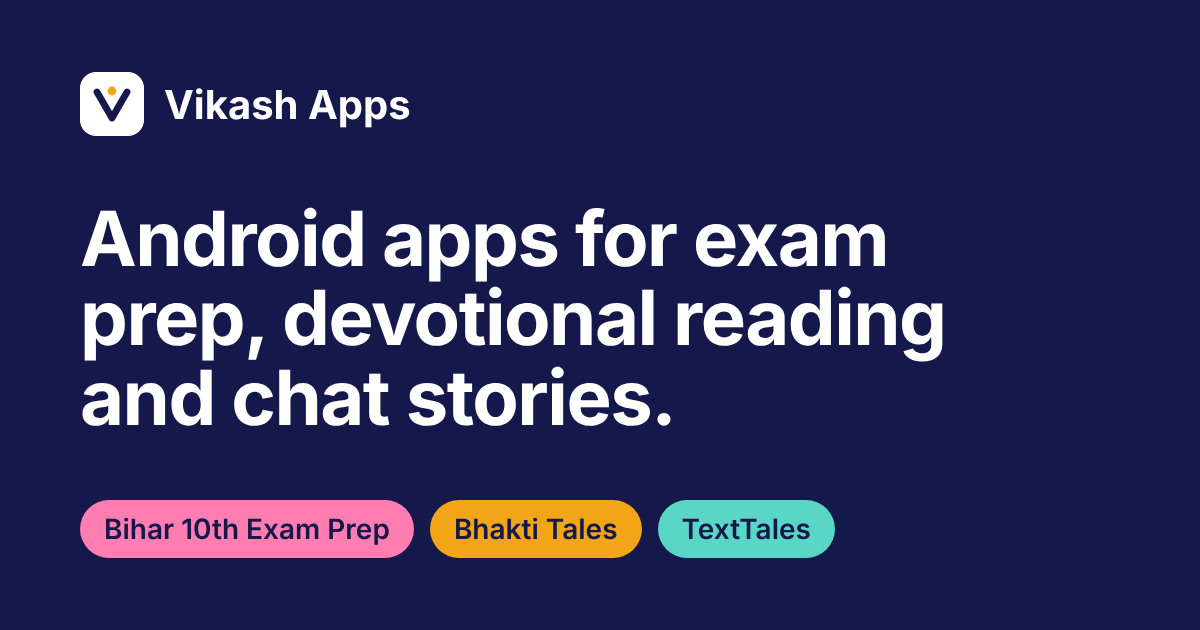
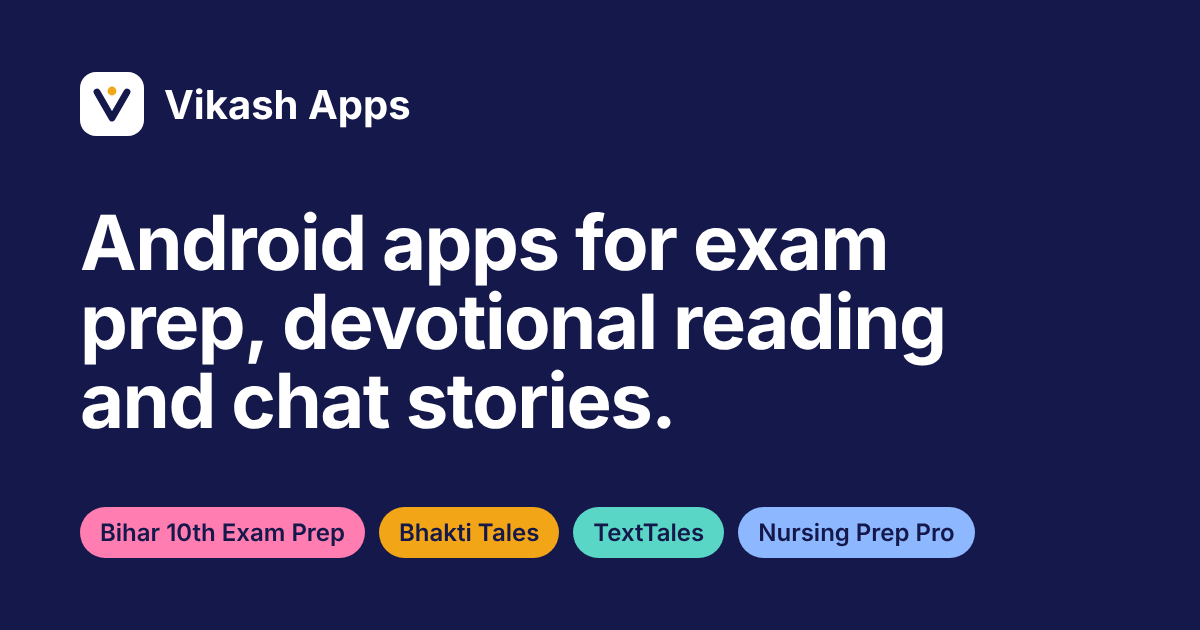
updated nursing app page

Changed region(s): [[0.0617, 0.3317, 0.8017, 0.573], [0.0617, 0.7841, 0.8325, 0.9048], [0.0617, 0.4825, 0.555, 0.6937]]

diff --git a/apps/nursing-prep-pro/index.html b/apps/nursing-prep-pro/index.html
@@ -50,11 +50,10 @@
       <p class="lede">Semester-wise notes, practice MCQs and previous-year questions for nursing students.</p>
       <p class="measure">Nursing Prep Pro is an educational Android app. It follows the nursing curriculum semester by semester, with teacher-style notes to study from and questions to practise before your exams.</p>
       <p class="actions">
-        <!-- GOOGLE PLAY LINK: when the app is live, replace the span below with
-             <a class="btn" href="https://play.google.com/store/apps/details?id=YOUR.PACKAGE.ID" target="_blank" rel="noopener noreferrer">Get it on Google Play</a> -->
-        <span class="btn btn-pending">Google Play link coming soon</span>
+        <a class="btn" href="https://play.google.com/store/apps/details?id=com.technovikash.nursingpreppro" target="_blank" rel="noopener noreferrer">Get it on Google Play</a>
         <a href="privacy-policy/index.html">Privacy policy</a>
       </p>
+      <p class="small soft">Free to download. Contains ads. Some content may require an in-app purchase through Google Play.</p>
     </div>
     <figure class="specimen omr" data-app="nursing">
       <div class="sheet">
@@ -85,7 +84,7 @@
         <div><dt>Topic-wise notes</dt><dd>Teacher-style study notes for each topic.</dd></div>
         <div><dt>Practice MCQs</dt><dd>Chapter-wise multiple-choice questions to practise with.</dd></div>
         <div><dt>Previous-year questions</dt><dd>Questions from earlier exams to work through.</dd></div>
-        <div><dt>Practice and exam modes</dt><dd>Practise freely, or answer in a mock-test style.</dd></div>
+        <div><dt>Practice and exam modes</dt><dd>Solve questions at your own pace, or test yourself with timed, exam-style practice.</dd></div>
         <div><dt>Revision-focused learning</dt><dd>Content written with revision in mind.</dd></div>
       </dl>
     </div>
@@ -127,6 +126,7 @@
     <div class="stack">
       <h2>Disclaimer</h2>
       <p class="notice"><strong>Nursing Prep Pro is an independent educational application intended for study and exam preparation. It is not affiliated with, endorsed by, or sponsored by the Indian Nursing Council or any government organization unless explicitly stated.</strong> For the latest curriculum and rules, refer to your own institution and to the current publications of the relevant regulatory bodies.</p>
+      <p class="measure">The app is not a substitute for formal nursing education, clinical training, professional guidance, or instructions from a qualified nursing institution or healthcare professional.</p>
     </div>
   </section>
 

diff --git a/apps/bhakti-tales/index.html b/apps/bhakti-tales/index.html
@@ -87,6 +87,7 @@
       <div class="stack">
         <h2>Our other apps</h2>
         <ul class="other">
+          <li><strong>Nursing Prep Pro</strong><span>Notes, MCQs and previous-year questions for nursing students.</span><a href="../../apps/nursing-prep-pro/index.html">About the app</a></li>
           <li><strong>Bihar 10th Exam Prep</strong><span>Notes, MCQs and tests for Bihar Board Class 10.</span><a href="../../apps/bihar-10th/home.html">About the app</a></li>
           <li><strong>TextTales</strong><span>Chat stories in horror, romance and mystery.</span><a href="https://play.google.com/store/apps/details?id=com.texttales.app" target="_blank" rel="noopener">View on Google Play</a></li>
         </ul>
@@ -107,6 +108,7 @@
   <div class="wrap">
     <p>© 2026 Vikash Apps. All rights reserved.<br>Google Play is a trademark of Google LLC.</p>
     <ul>
+        <li><a href="../../apps/nursing-prep-pro/privacy-policy/index.html">Nursing Prep Pro privacy policy</a></li>
         <li><a href="../../apps/bihar-10th/index.html">Bihar 10th Exam Prep privacy policy</a></li>
         <li><a href="../../apps/bhakti-tales/privacy-policy.html">Bhakti Tales privacy policy</a></li>
         <li><a href="https://docs.google.com/document/d/e/2PACX-1vSJL7iEeEWvZIRmmM9pY1rdnHehLay3PUbqxiOf6uRe9yVZth0MRmSQ5HEycpHr0QEhHOxhDIHGWDXw/pub" target="_blank" rel="noopener">TextTales privacy policy</a></li>

diff --git a/apps/bihar-10th/home.html b/apps/bihar-10th/home.html
@@ -99,6 +99,7 @@
       <div class="stack">
         <h2>Our other apps</h2>
         <ul class="other">
+          <li><strong>Nursing Prep Pro</strong><span>Notes, MCQs and previous-year questions for nursing students.</span><a href="../../apps/nursing-prep-pro/index.html">About the app</a></li>
           <li><strong>TextTales</strong><span>Chat stories in horror, romance and mystery.</span><a href="https://play.google.com/store/apps/details?id=com.texttales.app" target="_blank" rel="noopener">View on Google Play</a></li>
           <li><strong>Bhakti Tales</strong><span>Devotional stories in Hindi and English.</span><a href="../../apps/bhakti-tales/index.html">About the app</a></li>
         </ul>
@@ -119,6 +120,7 @@
   <div class="wrap">
     <p>© 2026 Vikash Apps. All rights reserved.<br>Google Play is a trademark of Google LLC.</p>
     <ul>
+        <li><a href="../../apps/nursing-prep-pro/privacy-policy/index.html">Nursing Prep Pro privacy policy</a></li>
         <li><a href="../../apps/bihar-10th/index.html">Bihar 10th Exam Prep privacy policy</a></li>
         <li><a href="../../apps/bhakti-tales/privacy-policy.html">Bhakti Tales privacy policy</a></li>
         <li><a href="https://docs.google.com/document/d/e/2PACX-1vSJL7iEeEWvZIRmmM9pY1rdnHehLay3PUbqxiOf6uRe9yVZth0MRmSQ5HEycpHr0QEhHOxhDIHGWDXw/pub" target="_blank" rel="noopener">TextTales privacy policy</a></li>

diff --git a/404.html b/404.html
@@ -45,6 +45,8 @@
         <li><a href="/apps/bihar-10th/index.html">Bihar 10th Exam Prep privacy policy</a></li>
         <li><a href="/apps/bhakti-tales/index.html">Bhakti Tales</a></li>
         <li><a href="/apps/bhakti-tales/privacy-policy.html">Bhakti Tales privacy policy</a></li>
+        <li><a href="/apps/nursing-prep-pro/index.html">Nursing Prep Pro</a></li>
+        <li><a href="/apps/nursing-prep-pro/privacy-policy/index.html">Nursing Prep Pro privacy policy</a></li>
       </ul>
     </div>
   </section>
@@ -54,6 +56,7 @@
   <div class="wrap">
     <p>© 2026 Vikash Apps. All rights reserved.<br>Google Play is a trademark of Google LLC.</p>
     <ul>
+        <li><a href="/apps/nursing-prep-pro/privacy-policy/index.html">Nursing Prep Pro privacy policy</a></li>
         <li><a href="/apps/bihar-10th/index.html">Bihar 10th Exam Prep privacy policy</a></li>
         <li><a href="/apps/bhakti-tales/privacy-policy.html">Bhakti Tales privacy policy</a></li>
         <li><a href="https://docs.google.com/document/d/e/2PACX-1vSJL7iEeEWvZIRmmM9pY1rdnHehLay3PUbqxiOf6uRe9yVZth0MRmSQ5HEycpHr0QEhHOxhDIHGWDXw/pub" target="_blank" rel="noopener">TextTales privacy policy</a></li>

diff --git a/index.html b/index.html
@@ -79,7 +79,7 @@
         <figcaption><a href="https://play.google.com/store/apps/details?id=com.texttales.app" target="_blank" rel="noopener">TextTales</a><br>Stories told one message at a time.</figcaption>
       </figure>
     </div>
-    <p class="desk-note small soft">Sample content, shown to illustrate each app.</p>
+    <p class="desk-note small soft">Sample content, shown to illustrate the apps.</p>
   </section>
 
   <section class="wrap section" id="apps">
@@ -151,7 +151,7 @@
           <li>Chapter-wise practice MCQs</li>
           <li>Practice and exam modes</li>
         </ul>
-        <p class="actions"><a class="btn" href="apps/nursing-prep-pro/index.html">About the app</a><a href="apps/nursing-prep-pro/privacy-policy/index.html">Privacy policy</a></p>
+        <p class="actions"><a class="btn" href="https://play.google.com/store/apps/details?id=com.technovikash.nursingpreppro" target="_blank" rel="noopener noreferrer">Get it on Google Play</a><a href="apps/nursing-prep-pro/index.html">About the app</a><a href="apps/nursing-prep-pro/privacy-policy/index.html">Privacy policy</a></p>
       </div>
     </article>
   </section>

diff --git a/apps/bhakti-tales/privacy-policy.html b/apps/bhakti-tales/privacy-policy.html
@@ -96,6 +96,7 @@
   <div class="wrap">
     <p>© 2026 Vikash Apps. All rights reserved.<br>Google Play is a trademark of Google LLC.</p>
     <ul>
+        <li><a href="../../apps/nursing-prep-pro/privacy-policy/index.html">Nursing Prep Pro privacy policy</a></li>
         <li><a href="../../apps/bihar-10th/index.html">Bihar 10th Exam Prep privacy policy</a></li>
         <li><a href="../../apps/bhakti-tales/privacy-policy.html">Bhakti Tales privacy policy</a></li>
         <li><a href="https://docs.google.com/document/d/e/2PACX-1vSJL7iEeEWvZIRmmM9pY1rdnHehLay3PUbqxiOf6uRe9yVZth0MRmSQ5HEycpHr0QEhHOxhDIHGWDXw/pub" target="_blank" rel="noopener">TextTales privacy policy</a></li>

diff --git a/apps/bihar-10th/index.html b/apps/bihar-10th/index.html
@@ -99,6 +99,7 @@
   <div class="wrap">
     <p>© 2026 Vikash Apps. All rights reserved.<br>Google Play is a trademark of Google LLC.</p>
     <ul>
+        <li><a href="../../apps/nursing-prep-pro/privacy-policy/index.html">Nursing Prep Pro privacy policy</a></li>
         <li><a href="../../apps/bihar-10th/index.html">Bihar 10th Exam Prep privacy policy</a></li>
         <li><a href="../../apps/bhakti-tales/privacy-policy.html">Bhakti Tales privacy policy</a></li>
         <li><a href="https://docs.google.com/document/d/e/2PACX-1vSJL7iEeEWvZIRmmM9pY1rdnHehLay3PUbqxiOf6uRe9yVZth0MRmSQ5HEycpHr0QEhHOxhDIHGWDXw/pub" target="_blank" rel="noopener">TextTales privacy policy</a></li>

diff --git a/apps/bihar-10th/privacy-policy.html b/apps/bihar-10th/privacy-policy.html
@@ -99,6 +99,7 @@
   <div class="wrap">
     <p>© 2026 Vikash Apps. All rights reserved.<br>Google Play is a trademark of Google LLC.</p>
     <ul>
+        <li><a href="../../apps/nursing-prep-pro/privacy-policy/index.html">Nursing Prep Pro privacy policy</a></li>
         <li><a href="../../apps/bihar-10th/index.html">Bihar 10th Exam Prep privacy policy</a></li>
         <li><a href="../../apps/bhakti-tales/privacy-policy.html">Bhakti Tales privacy policy</a></li>
         <li><a href="https://docs.google.com/document/d/e/2PACX-1vSJL7iEeEWvZIRmmM9pY1rdnHehLay3PUbqxiOf6uRe9yVZth0MRmSQ5HEycpHr0QEhHOxhDIHGWDXw/pub" target="_blank" rel="noopener">TextTales privacy policy</a></li>
